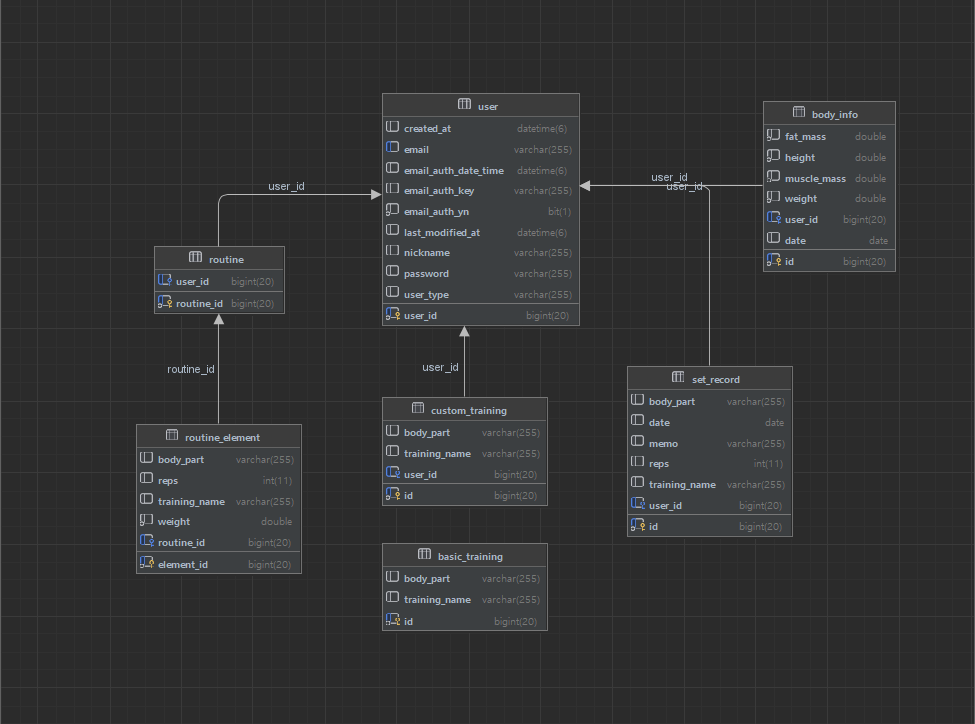
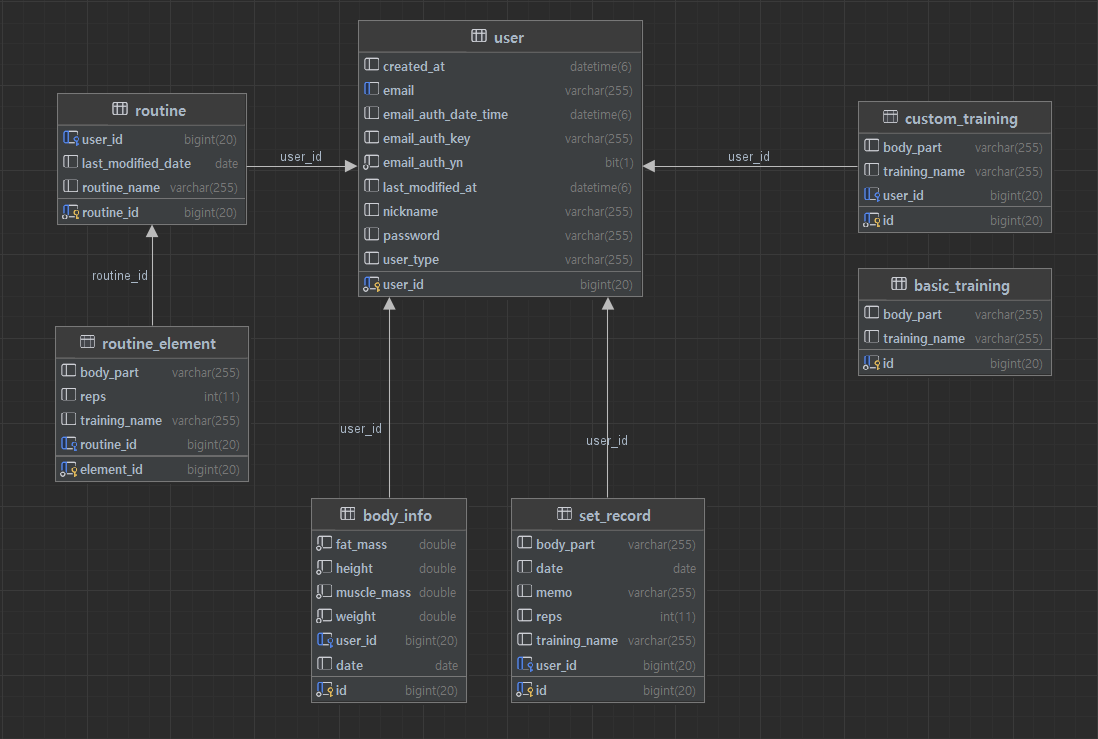
refactor: ROUTINE 클래스 필드 수정, ERD 수정, update README

diff --git a/src/main/java/com/example/fitnessrecord/global/social/login/kakao/controller/KakaoAuthController.java b/src/main/java/com/example/fitnessrecord/global/social/login/kakao/controller/KakaoAuthController.java
@@ -1,14 +1,13 @@
-package com.example.fitnessrecord.domain.social.login.kakao.controller;
+package com.example.fitnessrecord.global.social.login.kakao.controller;
 
-import com.example.fitnessrecord.domain.social.login.kakao.api.KakaoApi;
-import com.example.fitnessrecord.domain.social.login.kakao.model.KakaoProfile;
-import com.example.fitnessrecord.domain.social.login.kakao.model.OAuthToken;
+import com.example.fitnessrecord.global.social.login.kakao.api.KakaoApi;
+import com.example.fitnessrecord.global.social.login.kakao.model.KakaoProfile;
+import com.example.fitnessrecord.global.social.login.kakao.model.OAuthToken;
 import com.example.fitnessrecord.domain.user.dto.UserDto;
 import com.example.fitnessrecord.domain.user.persist.User;
 import com.example.fitnessrecord.domain.user.service.UserService;
 import com.example.fitnessrecord.global.auth.dto.AuthResponse;
 import com.example.fitnessrecord.global.auth.sercurity.jwt.TokenProvider;
-import com.example.fitnessrecord.global.util.GrantUtils;
 import lombok.RequiredArgsConstructor;
 import lombok.extern.slf4j.Slf4j;
 import org.springframework.web.bind.annotation.RequestMapping;

diff --git a/src/main/java/com/example/fitnessrecord/global/social/login/kakao/api/KakaoApi.java b/src/main/java/com/example/fitnessrecord/global/social/login/kakao/api/KakaoApi.java
@@ -1,8 +1,8 @@
-package com.example.fitnessrecord.domain.social.login.kakao.api;
+package com.example.fitnessrecord.global.social.login.kakao.api;
 
-import com.example.fitnessrecord.domain.social.login.common.component.AuthConstUtil;
-import com.example.fitnessrecord.domain.social.login.kakao.model.KakaoProfile;
-import com.example.fitnessrecord.domain.social.login.kakao.model.OAuthToken;
+import com.example.fitnessrecord.global.social.login.common.component.AuthConstUtil;
+import com.example.fitnessrecord.global.social.login.kakao.model.KakaoProfile;
+import com.example.fitnessrecord.global.social.login.kakao.model.OAuthToken;
 import com.google.gson.Gson;
 import com.google.gson.JsonElement;
 import com.google.gson.JsonObject;

diff --git a/src/main/java/com/example/fitnessrecord/domain/routine/persist/Routine.java b/src/main/java/com/example/fitnessrecord/domain/routine/persist/Routine.java
@@ -1,6 +1,7 @@
 package com.example.fitnessrecord.domain.routine.persist;
 
 import com.example.fitnessrecord.domain.user.persist.User;
+import java.time.LocalDate;
 import java.util.ArrayList;
 import java.util.List;
 import javax.persistence.CascadeType;
@@ -35,8 +36,11 @@ public class Routine {
   @JoinColumn(name = "USER_ID")
   private User user;
 
+  private String routineName;
+
+  private LocalDate lastModifiedDate;
+
   @OneToMany(mappedBy = "routine", cascade = CascadeType.ALL, orphanRemoval = true)
   private List<RoutineElement> list = new ArrayList<>();
-
 
 }

diff --git a/src/main/java/com/example/fitnessrecord/domain/routine/persist/RoutineElement.java b/src/main/java/com/example/fitnessrecord/domain/routine/persist/RoutineElement.java
@@ -1,7 +1,7 @@
 package com.example.fitnessrecord.domain.routine.persist;
 
 
-import com.example.fitnessrecord.domain.training.basic.type.BodyPart;
+import com.example.fitnessrecord.domain.training.common.type.BodyPart;
 import javax.persistence.Column;
 import javax.persistence.Entity;
 import javax.persistence.EnumType;
@@ -39,7 +39,6 @@ public class RoutineElement {
   @Enumerated(EnumType.STRING)
   private BodyPart bodyPart; //운동 부위
 
-  private double weight; //무게
   private Integer reps; //횟수
 
 }

diff --git a/src/main/java/com/example/fitnessrecord/domain/training/common/type/BodyPart.java b/src/main/java/com/example/fitnessrecord/domain/training/common/type/BodyPart.java
@@ -1,4 +1,4 @@
-package com.example.fitnessrecord.domain.training.basic.type;
+package com.example.fitnessrecord.domain.training.common.type;
 
 import lombok.AllArgsConstructor;
 import lombok.Getter;
@@ -13,7 +13,7 @@ public enum BodyPart {
   SHOULDER("어깨(Shoulder)"),
   ARM("팔(Arms)"),
   ABS("복근(Abs)"),
-  LOWER_BODY("하체(Lower body)"),
+  LEGS("하체(Legs)"),
   QUADS("대퇴 사두(Quads)"),
   HAMSTRINGS("햄스트링(Hamstrings)"),
   CALVES("종아리(Calves)"),

diff --git a/src/main/java/com/example/fitnessrecord/global/social/login/common/controller/FormLoginController.java b/src/main/java/com/example/fitnessrecord/global/social/login/common/controller/FormLoginController.java
@@ -1,6 +1,6 @@
-package com.example.fitnessrecord.domain.social.login.common.controller;
+package com.example.fitnessrecord.global.social.login.common.controller;
 
-import com.example.fitnessrecord.domain.social.login.common.model.AuthAttributes;
+import com.example.fitnessrecord.global.social.login.common.model.AuthAttributes;
 import org.springframework.stereotype.Controller;
 import org.springframework.ui.Model;
 import org.springframework.web.bind.annotation.GetMapping;

diff --git a/src/main/java/com/example/fitnessrecord/domain/training/custom/persist/CustomTraining.java b/src/main/java/com/example/fitnessrecord/domain/training/custom/persist/CustomTraining.java
@@ -1,6 +1,6 @@
 package com.example.fitnessrecord.domain.training.custom.persist;
 
-import com.example.fitnessrecord.domain.training.basic.type.BodyPart;
+import com.example.fitnessrecord.domain.training.common.type.BodyPart;
 import com.example.fitnessrecord.domain.user.persist.User;
 import javax.persistence.Entity;
 import javax.persistence.EnumType;

diff --git a/src/main/java/com/example/fitnessrecord/global/social/login/common/model/AuthAttributes.java b/src/main/java/com/example/fitnessrecord/global/social/login/common/model/AuthAttributes.java
@@ -1,6 +1,6 @@
-package com.example.fitnessrecord.domain.social.login.common.model;
+package com.example.fitnessrecord.global.social.login.common.model;
 
-import com.example.fitnessrecord.domain.social.login.common.component.AuthConstUtil;
+import com.example.fitnessrecord.global.social.login.common.component.AuthConstUtil;
 import lombok.Data;
 
 

diff --git a/src/main/java/com/example/fitnessrecord/domain/record/persist/SetRecord.java b/src/main/java/com/example/fitnessrecord/domain/record/persist/SetRecord.java
@@ -1,7 +1,7 @@
 package com.example.fitnessrecord.domain.record.persist;
 
 
-import com.example.fitnessrecord.domain.training.basic.type.BodyPart;
+import com.example.fitnessrecord.domain.training.common.type.BodyPart;
 import com.example.fitnessrecord.domain.user.persist.User;
 import java.time.LocalDate;
 import javax.persistence.Entity;

diff --git a/src/main/java/com/example/fitnessrecord/domain/training/basic/persist/BasicTraining.java b/src/main/java/com/example/fitnessrecord/domain/training/basic/persist/BasicTraining.java
@@ -1,6 +1,6 @@
 package com.example.fitnessrecord.domain.training.basic.persist;
 
-import com.example.fitnessrecord.domain.training.basic.type.BodyPart;
+import com.example.fitnessrecord.domain.training.common.type.BodyPart;
 import javax.persistence.Entity;
 import javax.persistence.EnumType;
 import javax.persistence.Enumerated;

diff --git a/src/main/java/com/example/fitnessrecord/domain/training/basic/persist/BasicTrainingRepository.java b/src/main/java/com/example/fitnessrecord/domain/training/basic/persist/BasicTrainingRepository.java
@@ -1,0 +1,9 @@
+package com.example.fitnessrecord.domain.training.basic.persist;
+
+import org.springframework.data.jpa.repository.JpaRepository;
+import org.springframework.stereotype.Repository;
+
+@Repository
+public interface BasicTrainingRepository extends JpaRepository<BasicTraining, Long> {
+
+}

diff --git a/src/main/java/com/example/fitnessrecord/global/social/login/kakao/model/KakaoProfile.java b/src/main/java/com/example/fitnessrecord/global/social/login/kakao/model/KakaoProfile.java
@@ -1,4 +1,4 @@
-package com.example.fitnessrecord.domain.social.login.kakao.model;
+package com.example.fitnessrecord.global.social.login.kakao.model;
 
 import com.example.fitnessrecord.domain.user.persist.User;
 import com.example.fitnessrecord.domain.user.type.UserType;
